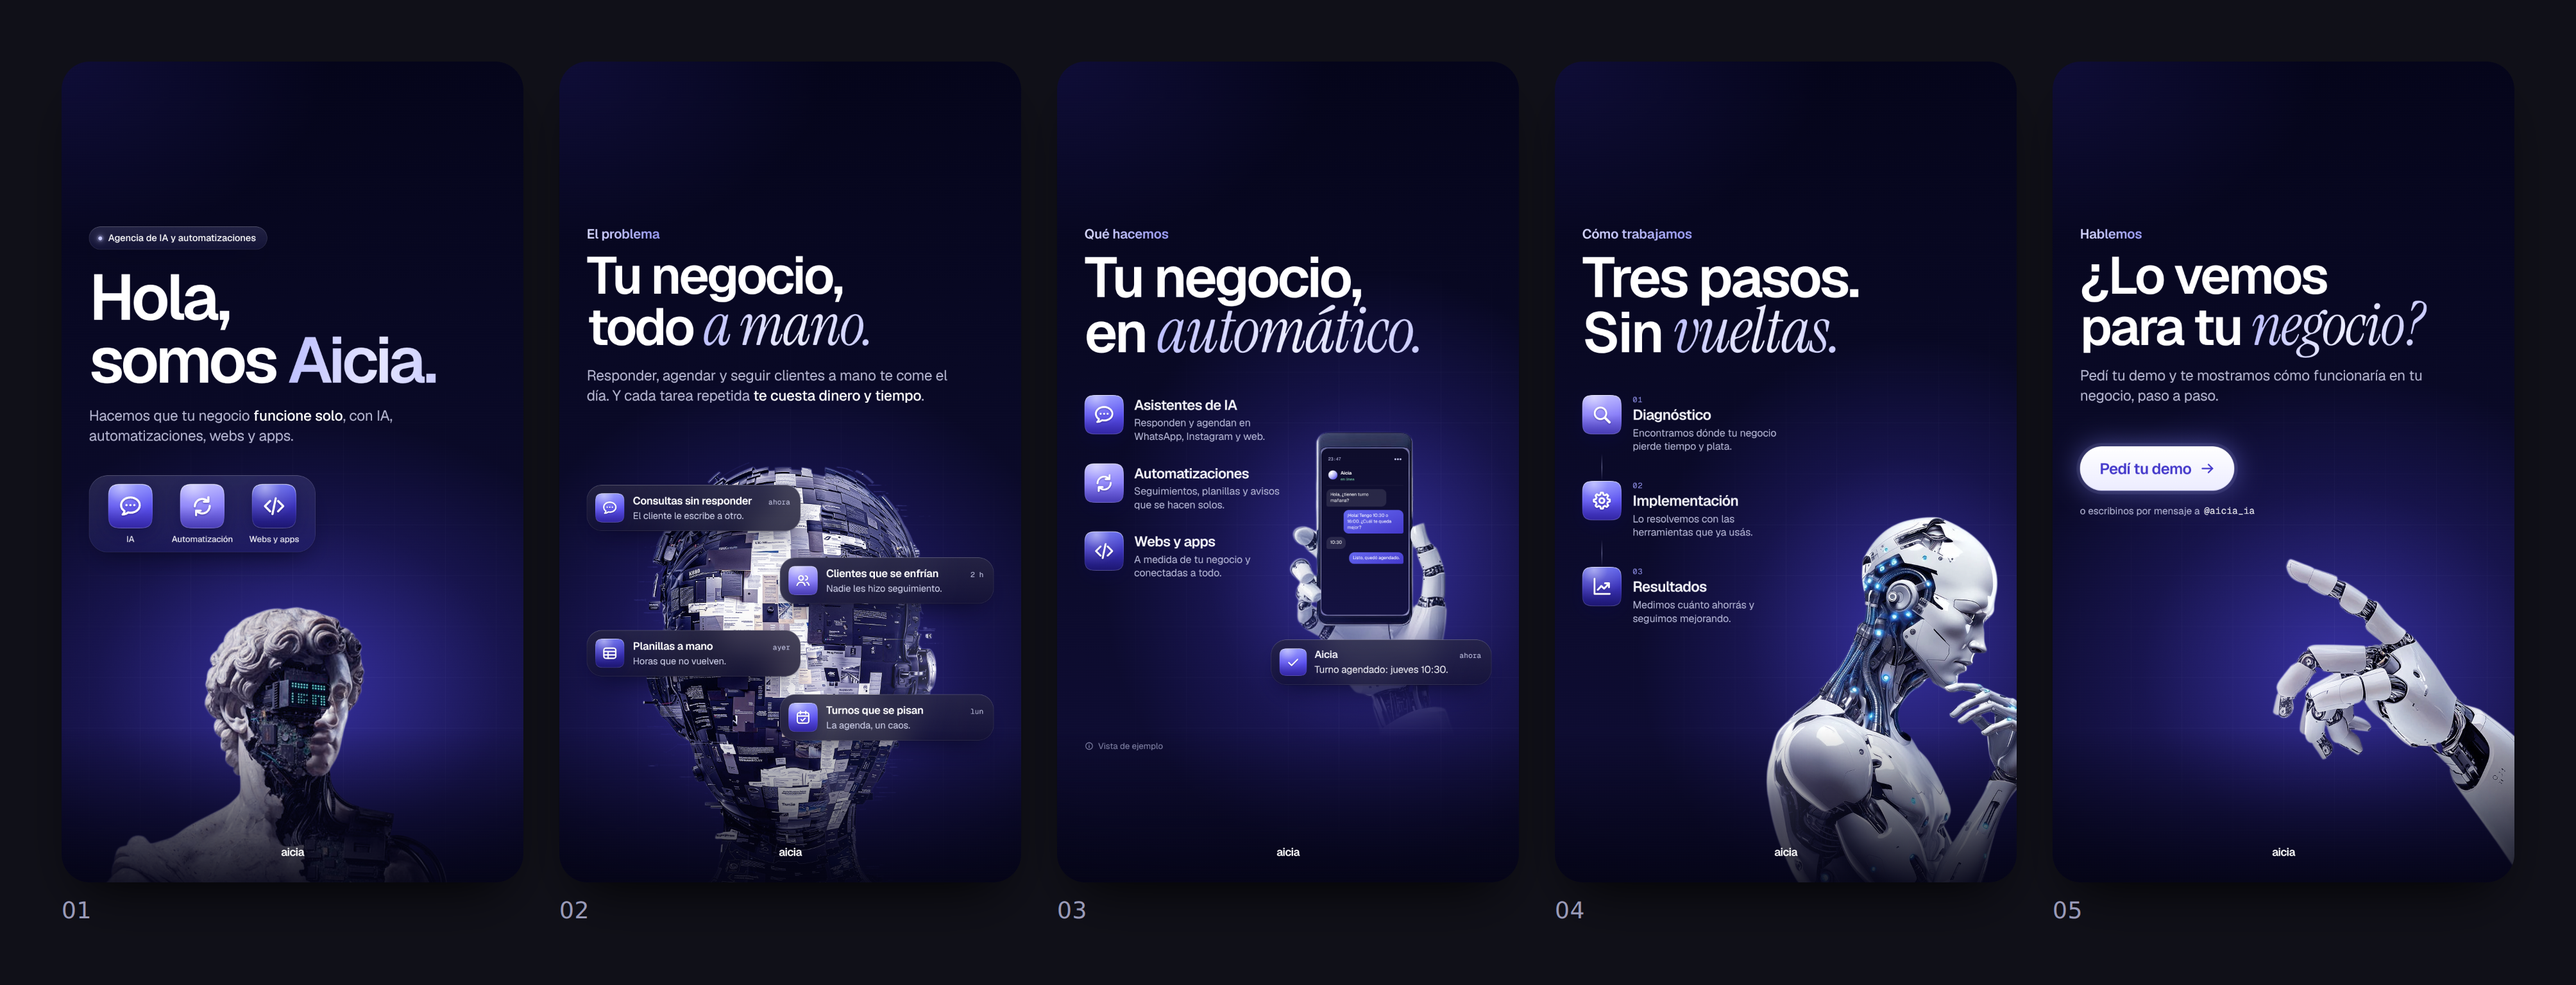
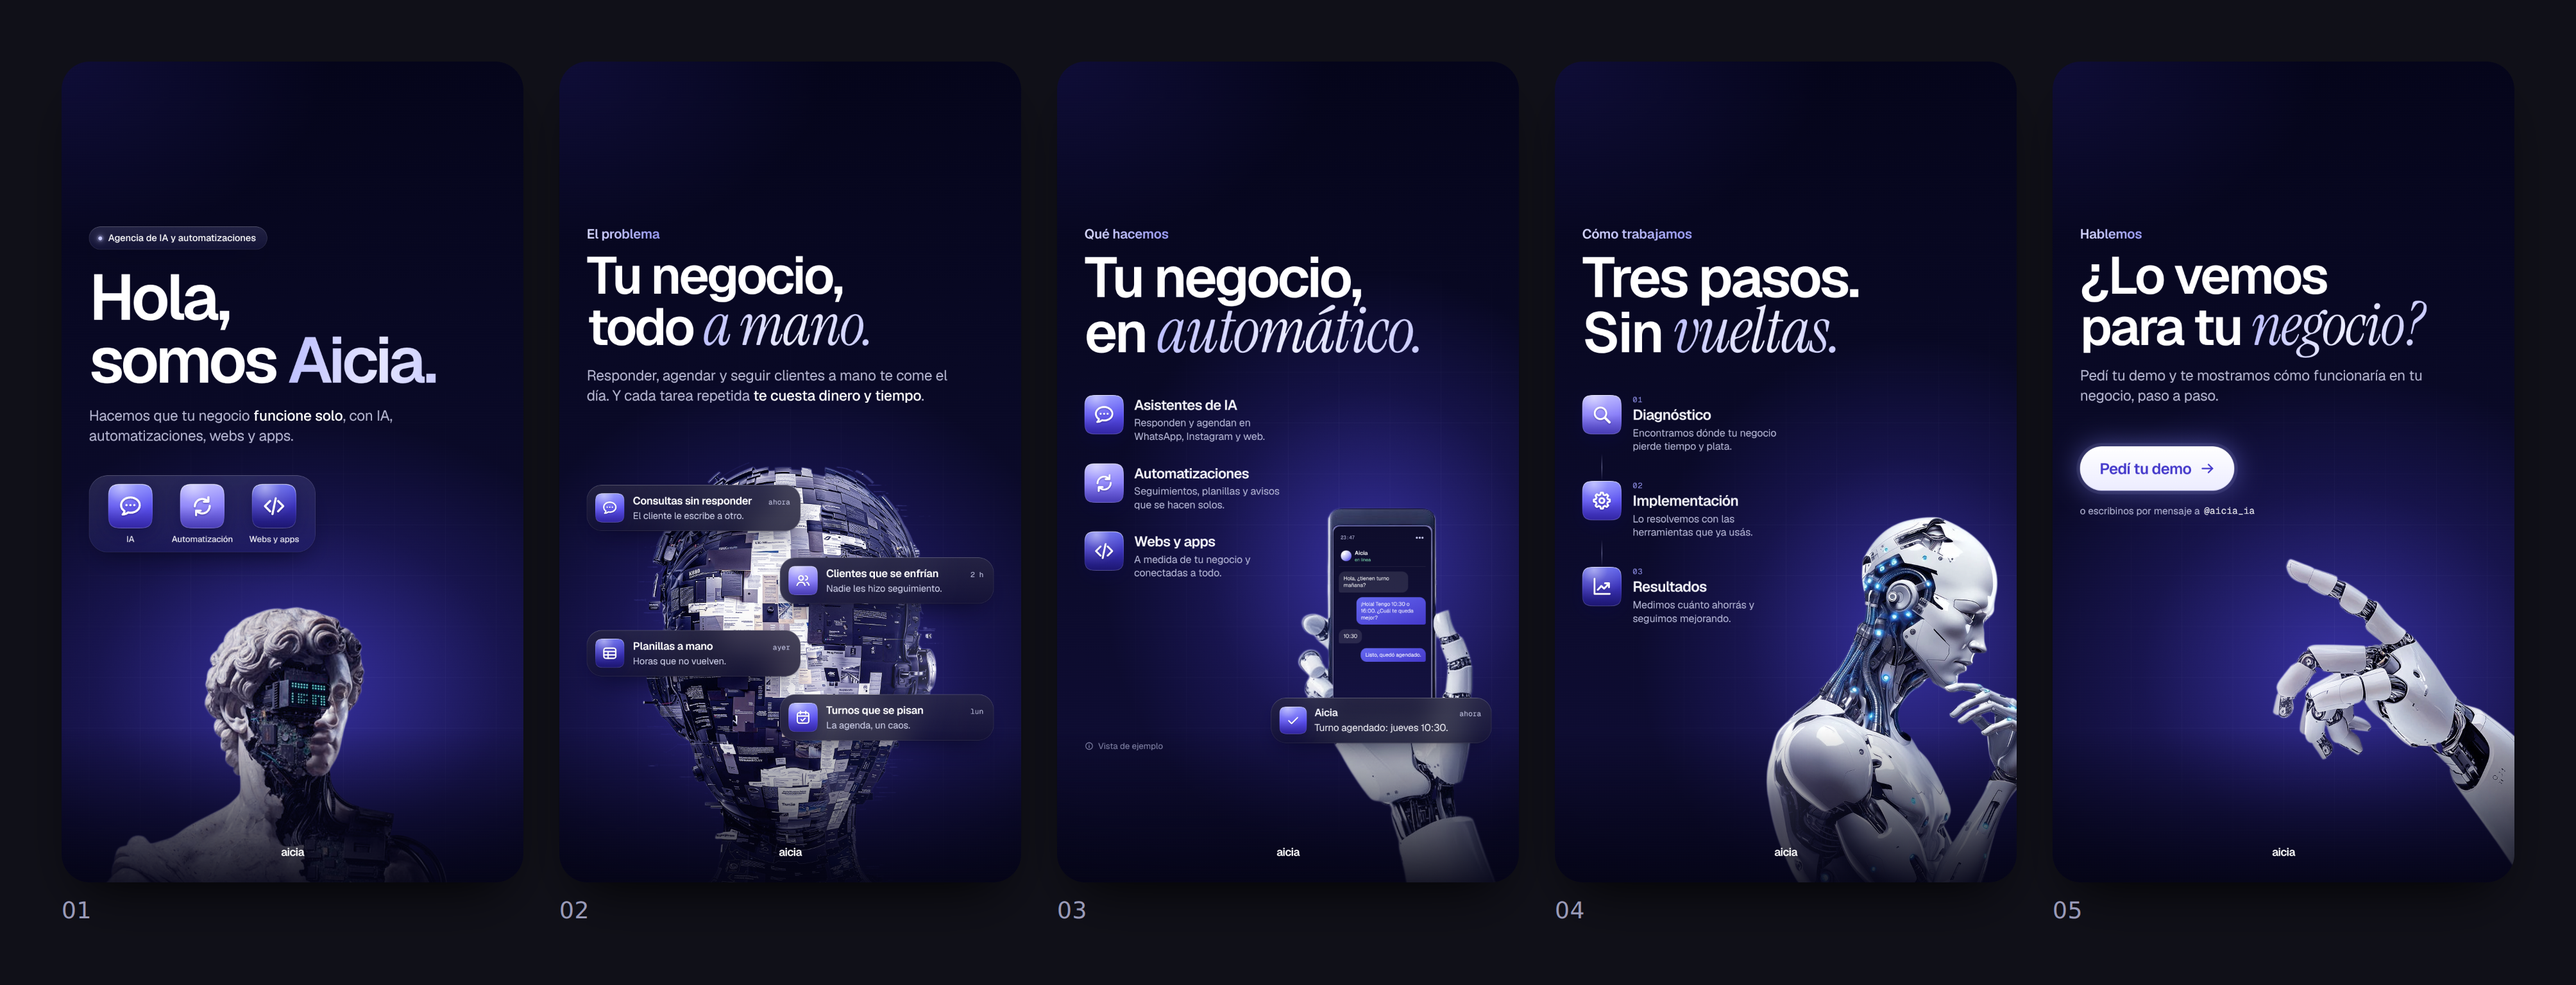
Historia 03: la mano sale desde el borde inferior, sin fundido
Mano más grande apoyada en el borde de abajo como en las otras
historias; pantalla del celular y notificación reubicadas, y chat
del celular un poco más grande.

Claude-Session: https://claude.ai/code/session_01SBSshHAET78NiDLxszLW9R

Changed region(s): [[0.4669, 0.4375, 0.5914, 0.9062]]

diff --git a/historias/destacada-aicia/destacada.html b/historias/destacada-aicia/destacada.html
@@ -116,16 +116,16 @@ svg.app .gl .f{fill:#fff;stroke:none}
 .s3 .svc svg.app{width:92px;height:92px}
 .s3 .svc h3{font-size:33px;font-weight:600;letter-spacing:-0.03em;line-height:1.1;margin-top:6px}
 .s3 .svc p{margin-top:8px;font-size:24px;line-height:1.32;color:var(--t2);letter-spacing:-0.008em;width:350px}
-.screen{z-index:3;border-radius:16px;overflow:hidden;background:linear-gradient(180deg,#0E0D2A,#141240);display:flex;flex-direction:column;padding:18px 12px 12px;gap:8px}
-.screen .sb{display:flex;justify-content:space-between;font-size:10px;color:#C9CAF0;font-family:"Geist Mono";padding:0 4px}
+.screen{z-index:3;border-radius:16px;overflow:hidden;background:linear-gradient(180deg,#0E0D2A,#141240);display:flex;flex-direction:column;padding:20px 13px 13px;gap:11px}
+.screen .sb{display:flex;justify-content:space-between;font-size:11px;color:#C9CAF0;font-family:"Geist Mono";padding:0 4px}
 .screen .ch{display:flex;align-items:center;gap:7px;padding:6px 4px 8px;border-bottom:1px solid rgba(255,255,255,.08)}
-.screen .ch img{width:22px}
-.screen .ch b{font-size:11px;font-weight:600;color:#fff}
-.screen .ch span{font-size:9px;color:#7FE3B0;display:block}
-.screen .bb{max-width:78%;padding:7px 9px;border-radius:12px;font-size:10.5px;line-height:1.3;color:#fff;letter-spacing:-0.005em}
+.screen .ch img{width:26px}
+.screen .ch b{font-size:13px;font-weight:600;color:#fff}
+.screen .ch span{font-size:10.5px;color:#7FE3B0;display:block}
+.screen .bb{max-width:80%;padding:8px 11px;border-radius:14px;font-size:12.5px;line-height:1.3;color:#fff;letter-spacing:-0.005em}
 .screen .bb.in{align-self:flex-start;background:rgba(255,255,255,.10);border-bottom-left-radius:4px}
 .screen .bb.out{align-self:flex-end;background:linear-gradient(160deg,#6366F1,#4338CA);border-bottom-right-radius:4px}
-.toast{left:500px;top:1352px;width:516px;display:flex;gap:18px;align-items:center;padding:20px 24px 20px 20px;border-radius:36px;z-index:4}
+.toast{left:500px;top:1488px;width:516px;display:flex;gap:18px;align-items:center;padding:20px 24px 20px 20px;border-radius:36px;z-index:4}
 .toast svg.app{width:64px;height:64px}
 .toast .nt{flex:1;display:flex;flex-direction:column;gap:5px}
 .toast .nh{display:flex;justify-content:space-between;align-items:baseline}
@@ -247,8 +247,8 @@ svg.app .gl .f{fill:#fff;stroke:none}
 <!-- ======================= 03 · QUÉ HACEMOS ======================= -->
 <section class="story s3">
   <div class="stage"></div><div class="grid"></div>
-  <div class="subj fade" data-src="assets/mano-robot-celular.png" data-rim="left" style="left:400px;top:720px;width:660px;--tint:.20"></div>
-  <div class="screen" style="left:618px;top:905px;width:204px;height:389px">
+  <div class="subj" data-src="assets/mano-robot-celular.png" data-rim="left" style="left:402px;top:880px;width:740px;--tint:.20"></div>
+  <div class="screen" style="left:646px;top:1087px;width:229px;height:436px">
     <div class="sb"><span>23:47</span><span>●●●</span></div>
     <div class="ch"><img class="sph-img" data-sph="sat" alt=""><div><b>Aicia</b><span>en línea</span></div></div>
     <div class="bb in">Hola, ¿tienen turno mañana?</div>
